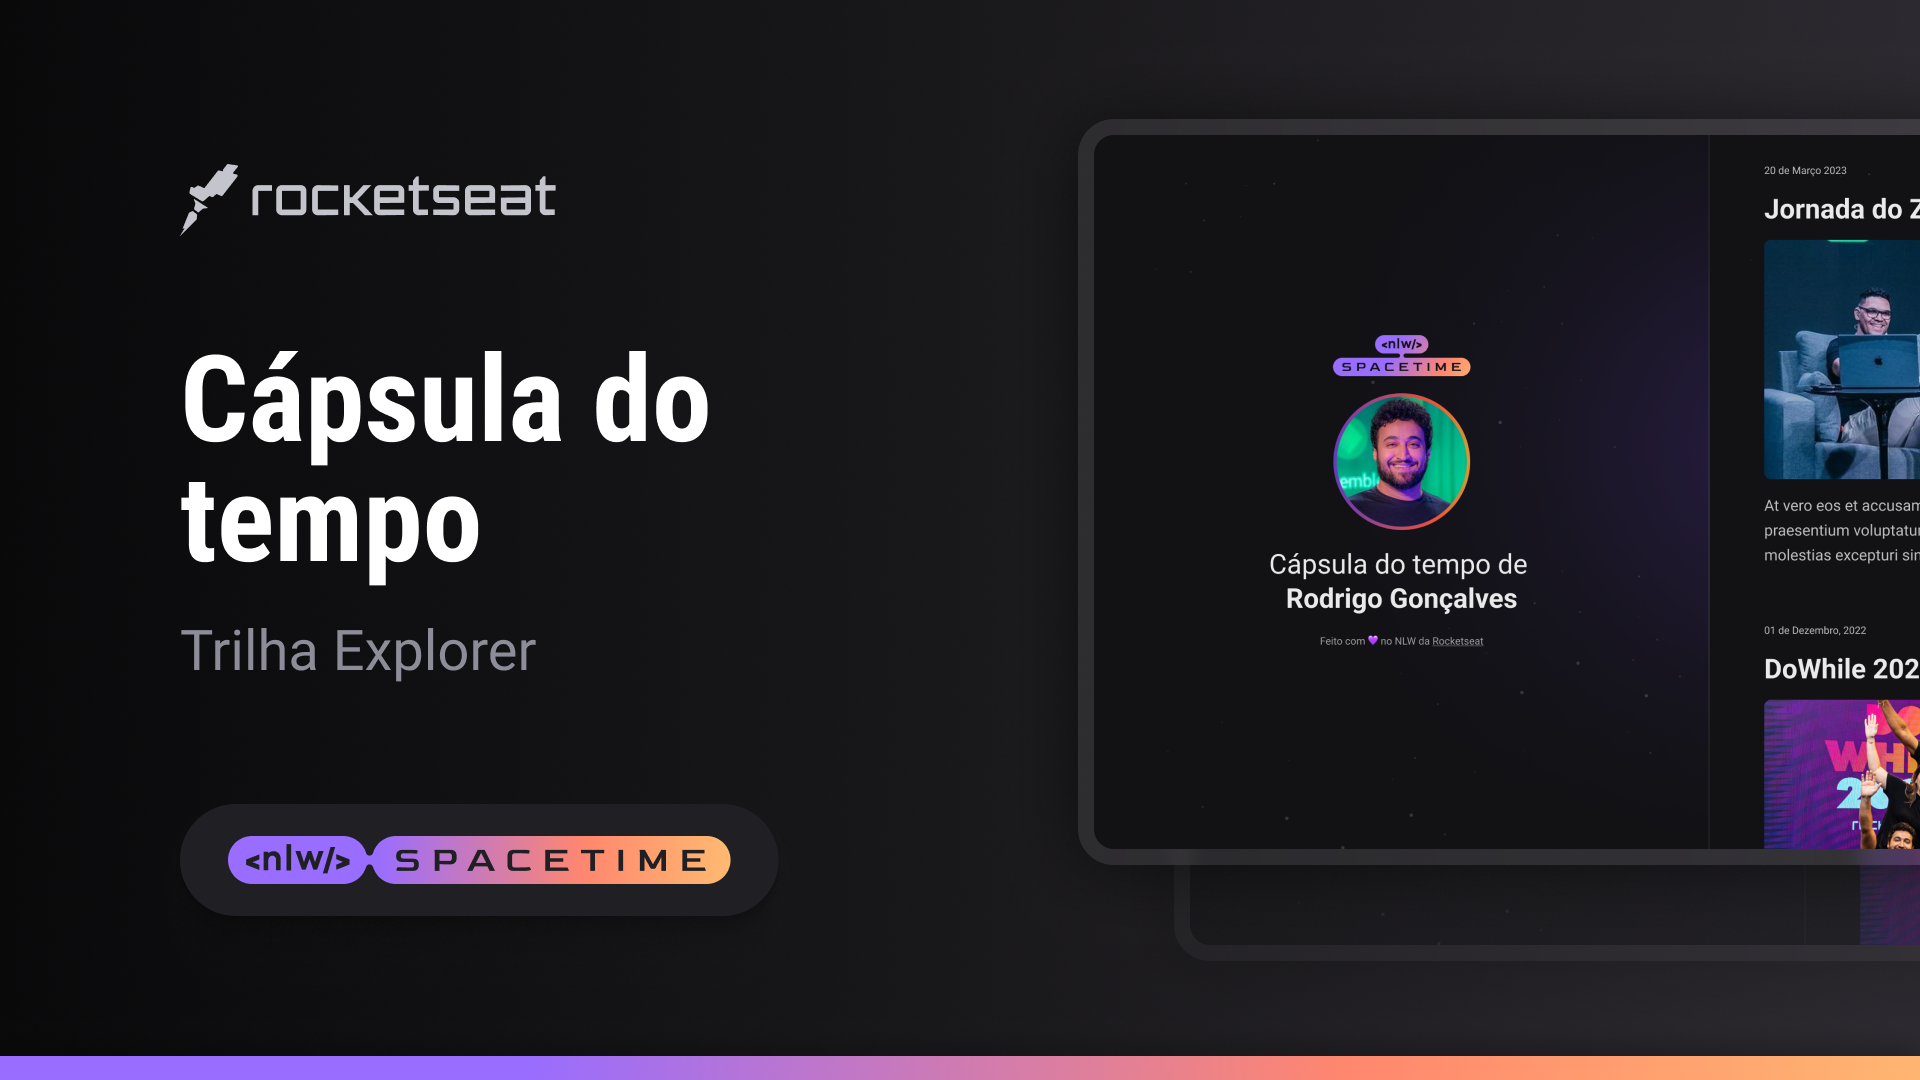
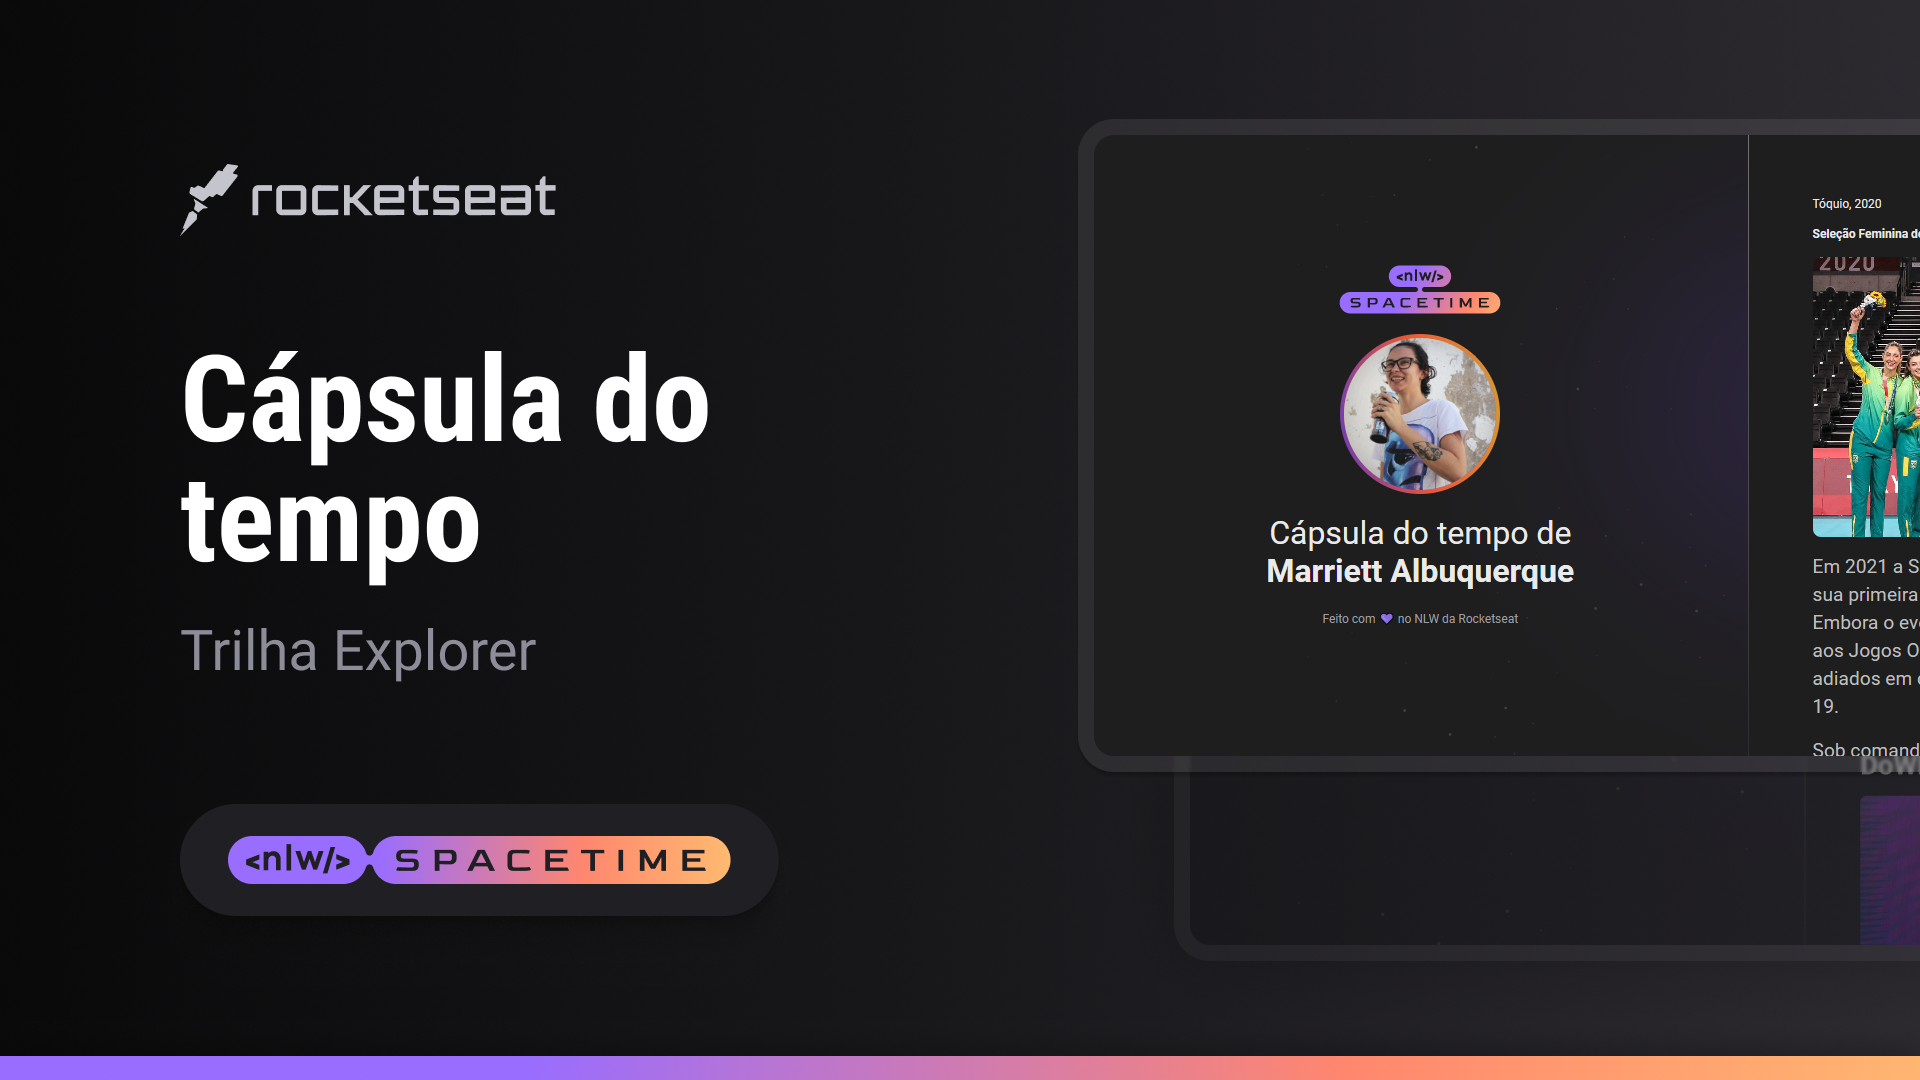
add project about and change preview

Changed region(s): [[0.5625, 0.1833, 1.0, 0.7944], [0.6562, 0.2444, 0.8125, 0.6111]]

diff --git a/README.md b/README.md
@@ -1,3 +1,18 @@
 <p align="center">
   <img src=".github/preview.png" alt="Demo do projeto" width="100%" />
 </p>
+
+# 🖥 Projeto
+
+- Esse é um projeto web responsivo de uma cápsula do tempo para exibir memórias em uma timeline.
+
+## 🚀 Tecnologias
+
+- Esse projeto foi desenvolvido durante uma NLW da Rocketseat com as seguintes teconologias:
+  - HTML
+  - CSS
+  - Git e Github
+
+## 🏷 Layout
+
+Você pode visualizar esse projeto clicando [neste link](https://marriett.github.io/nlw-spacetime/).
